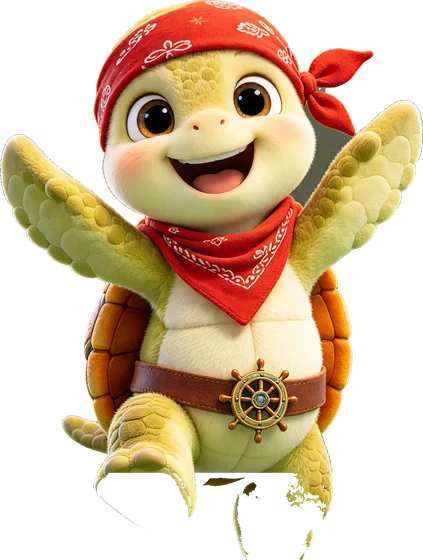
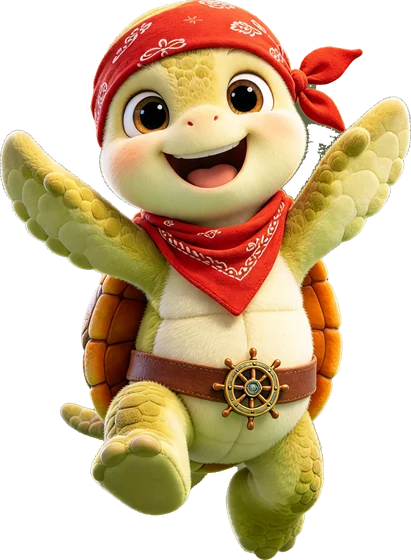
v12.23 deneme: ?dost=1 8 murettebat resmi, kunduz hareketli (Gemini videosu), uye kafesin onunde; CACHE v208
Claude-Session: https://claude.ai/code/session_017YyKZvGSLf9VkbFXRaTEZa

diff --git a/yapi/dost.js b/yapi/dost.js
@@ -44,9 +44,9 @@ function stil() {
 #dekran .de-ust{position:relative;font-size:20px;font-weight:900;color:#ffe27a;text-shadow:0 2px 0 #6a3400;margin-bottom:10px;transition:opacity .3s}#dekran.acik .de-ust{opacity:0}
 #dekran .de-kutu{position:relative;width:min(78vw,320px);height:min(88vw,360px)}
 #dekran .de-kafes{position:absolute;inset:0;display:flex;align-items:flex-end;justify-content:center;transition:transform .25s}#dekran .de-kafes>*{width:100%;height:100%;object-fit:contain}
-#dekran .de-kafes.sars{animation:desars .35s}@keyframes desars{25%{transform:translateX(-6px) rotate(-1.5deg)}75%{transform:translateX(6px) rotate(1.5deg)}}
+#dekran.cik .de-kafes{transform:translate(-22%,10%) scale(.62);opacity:.85;transition:transform .6s cubic-bezier(.3,1.3,.5,1),opacity .6s}#dekran .de-kafes.sars{animation:desars .35s}@keyframes desars{25%{transform:translateX(-6px) rotate(-1.5deg)}75%{transform:translateX(6px) rotate(1.5deg)}}
 #dekran .de-hay{position:absolute;left:50%;bottom:6%;width:86%;height:86%;margin-left:-43%;object-fit:contain;transform:translateY(25%) scale(.15);opacity:0;transition:transform .75s cubic-bezier(.3,1.55,.5,1),opacity .25s;filter:drop-shadow(0 10px 12px #0009);z-index:2}
-#dekran .de-hay.em{font-size:min(40vw,170px);line-height:1;text-align:center;display:flex;align-items:flex-end;justify-content:center}#dekran.cik .de-hay{transform:translateY(-6%) scale(1);opacity:1}
+#dekran .de-hay.em{font-size:min(40vw,170px);line-height:1;text-align:center;display:flex;align-items:flex-end;justify-content:center}#dekran.cik .de-hay{transform:translate(14%,4%) scale(1.08);opacity:1}
 #dekran .de-flas{position:absolute;inset:-20%;background:radial-gradient(circle,#fff8d0 0,rgba(255,240,170,.6) 30%,transparent 62%);opacity:0;pointer-events:none;z-index:3}#dekran.acik .de-flas{animation:deflas .7s}
 @keyframes deflas{0%{opacity:0}20%{opacity:1}100%{opacity:0}}
 #dekran h2{position:relative;margin:16px 16px 2px;font-size:28px;text-align:center;color:#ffe27a;text-shadow:0 3px 0 #7a3c00,0 0 18px #0008;transform:scale(.6);opacity:0;transition:all .4s .5s cubic-bezier(.3,1.6,.5,1)}

diff --git a/yapi/oyun.js b/yapi/oyun.js
@@ -18,7 +18,7 @@ import { PLAT3, plat3Kur, P3ALTIN, P3YAN, P3KOYU, P3AK } from './plat3.js?v=7';
 import { PLAT5, plat5Kur } from './plat5.js?v=4';   // v12.6 deneme ?plat5=1: platform sekil cesitleri, Blender ayak, parlak vernik   // v11.2: boyali platform (eski ?plat3=0)
 import { TOP3, sekerMat, sekerDuz } from './seker.js?v=8';
 import { GOR, gorSec } from './gorunum.js?v=2';
-import { DOST, dostBolum, dostKafes, dostUc, dostEkran } from './dost.js?v=3';   // v12.20 deneme ?dost=1: kafesteki dost
+import { DOST, dostBolum, dostKafes, dostUc, dostEkran } from './dost.js?v=4';   // v12.20 deneme ?dost=1: kafesteki dost
 import { topModeli3 } from './top4.js?v=1';   // v12.3 deneme: arkadan okunan top arabasi (?top4=1)   // v12.2 Gardirop (eski ?gor=0)   // v11.7 (eski ?top3=0)
 import { patiYukle } from './pati.js?v=2';   // v5.1: Adem'in patili oyuncak kupu
 import { kapaliHucre, kapaliMi } from './kapali.js?v=2';   // v5.1: kapali bloklar (kaliteli karsiligiyla kurulur)

diff --git a/sw.js b/sw.js
@@ -1,5 +1,5 @@
 // Blok Smash service worker: once ag, olmazsa onbellek. Boylece telefonda eski kod takili kalmaz.
-const CACHE = 'bloksmash-v207';
+const CACHE = 'bloksmash-v208';
 self.addEventListener('install', e => self.skipWaiting());
 self.addEventListener('activate', e => e.waitUntil(
   caches.keys().then(ks => Promise.all(ks.filter(k => k !== CACHE).map(k => caches.delete(k)))).then(() => self.clients.claim())

diff --git a/yapi/index.html b/yapi/index.html
@@ -221,6 +221,6 @@ html,body{margin:0;height:100%;overflow:hidden;background:#7cc6ff;font-family:va
   }
 })();
 </script>
-<script type="module" src="oyun.js?v=250"></script>
+<script type="module" src="oyun.js?v=251"></script>
 </body>
 </html>

diff --git a/yapi/DEVAM.md b/yapi/DEVAM.md
@@ -254,3 +254,8 @@ Rakipte yapi ekran genisliginin %80-90'i, blok ~90-100 px; bizde yapi ~%30, blok
 - Oyunda kafes YOK: anahtar kupten sag ustteki anahtar yuvasina (#dyuva) ucar. Bolum sonu ayri sayfa (#dekran): kilitli kafes, anahtar yuvadan gelip kilide girer, ceyrek tur doner, kafes sarsilir ve acilir (flas, isinlar), uye cikar: '<ad> kurtuldu! <gorev> · Murettebat n/8'.
 - Murettebat (dost.js DOSTLAR): Papagan Pako (Gozcu), Kaplumbaga Tosbi (Dumenci), Ahtapot Ahmo (Asci), Kunduz Kundi (Marangoz), Penguen Pengo (Gulle Ustasi), Kirpi Diken (Haritaci), Kurbaga Virak (Borazanci), Fok Foki (Dalgic).
 - Bekleyen Gemini resimleri: karakter/dost/{id}.webp (korsan kiyafetli, sevinerek cikan poz) ve kafes_kapali.webp / kafes_acik.webp. Simdilik kodla kafes ve emoji. Istemler: yapi/uretici/istem/murettebat.md
+
+## v12.22-23 deneme (24 Kas 2026, ?dost=1): murettebat resimleri + video
+- Adem'in Gemini cizimleri 8 uye -> karakter/dost/{id}.webp (kaynak karakter/dost/kaynak/). Sarimsi zeminde (kaplumbaga, kirpi) yeni yol: satir satir zemin rengi tahmini (kenar medyanlari), renk orani yakinsa silinir + en buyuk parca disindaki yesil lekeler (scratchpad dostek3.py mantigi). Kurbaga: ton 62-170 kenara bagli silme.
+- Video: Adem'in Gemini videosu (kunduz, 4 sn, yesil zemin) -> 15 fps kareler, her kare anahtar() + alt golge -> hareketli saydam WebP karakter/dost/kunduz_anim.webp (61 kare, 359x520, ~950 KB). dost.js once {id}_anim.webp, yoksa {id}.webp, yoksa emoji.
+- Bitis ekrani: kafes acilinca sola-geri kucilir, uye onde zipler.
